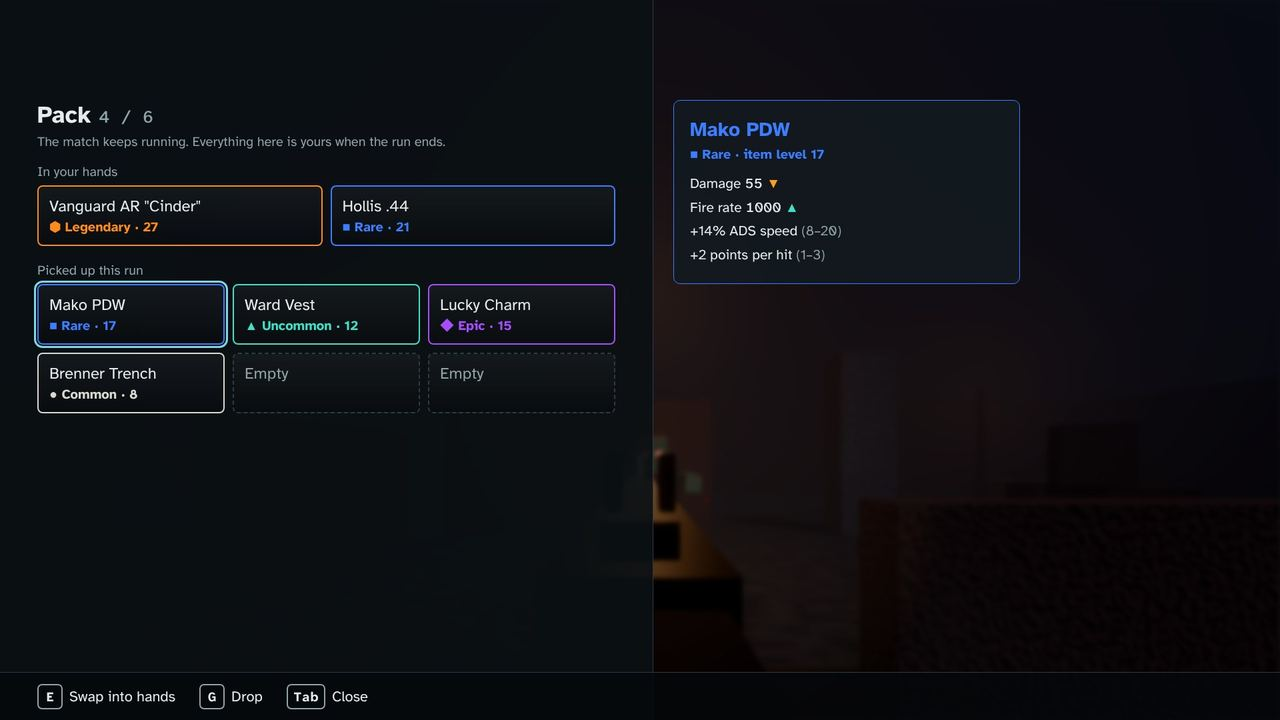
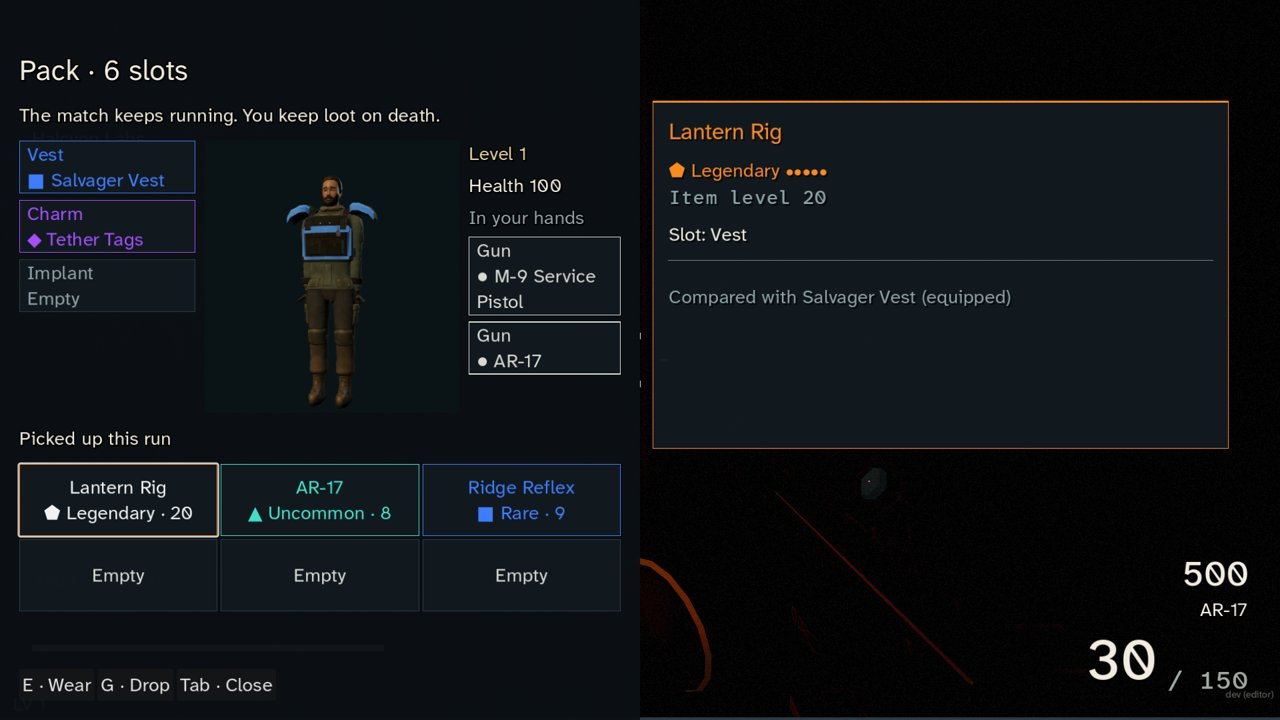
Tab Pack character view: worn gear on a live body, slot boxes, guns in hand, Pack below (F-83 step 2)
Claude-Session: https://claude.ai/code/session_012H4uho274bHzWtBtGATLKZ

diff --git a/docs/design/ui-hud.md b/docs/design/ui-hud.md
@@ -191,7 +191,7 @@ Follows the design doc table. Additions (the concept art on 2026-11-17 added the
 
 ### 11. Pack overlay
 
-Tab in a match. A half-screen panel over the HUD with the 6 Pack slots, your 2 equipped guns and the tooltip. The game keeps running behind it (it is a quick check, not a menu). You can drop items or swap a Pack gun into your hands. Mouse look is paused while it is open; movement keys still work.
+Tab in a match. A half-screen panel over the HUD. On top, your character in its worn gear (a live 3D view), with a box per gear slot on its left and your level, health and the guns in your hands on its right. Underneath, the 6 Pack slots. The item card sits on the right half, comparing a Pack gear piece with the one you wear. The game keeps running behind it (it is a quick check, not a menu). You can drop items, swap a Pack gun into your hands, or wear a Pack vest, charm or implant (E; the piece you take off goes into that Pack slot). Mouse look is paused while it is open; movement keys still work. Layout from the person's pick, 2026-11-19 (plan [wear-gear-mid-run](../plans/wear-gear-mid-run.md)).
 
 ![Pack overlay mockup](images/ui_pack_overlay.jpg)
 
